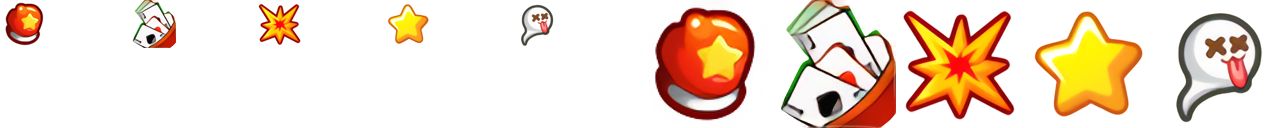
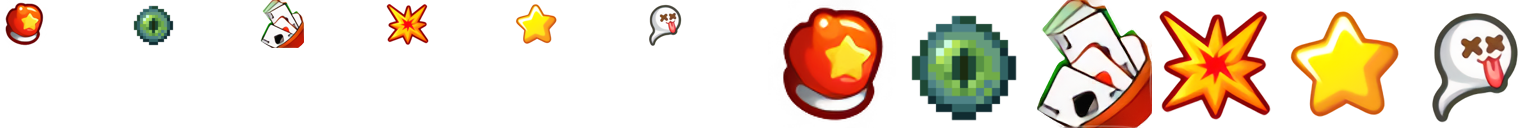
新增卡牌：心之眼

diff --git a/src/main/java/power/EyesHeartPower.java b/src/main/java/power/EyesHeartPower.java
@@ -1,0 +1,52 @@
+package power;
+//心之眼能力
+import com.badlogic.gdx.Gdx;
+import com.badlogic.gdx.graphics.g2d.TextureAtlas;
+import com.megacrit.cardcrawl.actions.common.*;
+import com.megacrit.cardcrawl.cards.AbstractCard;
+import com.megacrit.cardcrawl.core.AbstractCreature;
+import com.megacrit.cardcrawl.core.CardCrawlGame;
+import com.megacrit.cardcrawl.core.Settings;
+import com.megacrit.cardcrawl.localization.PowerStrings;
+import com.megacrit.cardcrawl.actions.utility.UseCardAction;
+import com.megacrit.cardcrawl.powers.AbstractPower;
+
+public class EyesHeartPower extends AbstractPower {
+    public static final String POWER_ID = "EyesHeartPower";
+
+    private static final PowerStrings powerStrings = CardCrawlGame.languagePack.getPowerStrings("EyesHeartPower");
+
+    public static final String NAME = powerStrings.NAME;
+
+    public static final String[] DESCRIPTIONS = powerStrings.DESCRIPTIONS;
+
+    public static TextureAtlas atlas_self;
+    public EyesHeartPower(AbstractCreature owner, int amt) {
+        super();
+        atlas_self = new TextureAtlas(Gdx.files.internal("powers/Selfpowers.atlas"));
+        this.name = NAME;
+        this.description = DESCRIPTIONS[0]+ amt + DESCRIPTIONS[1];
+        this.ID = POWER_ID;
+        this.owner = owner;
+        this.amount = amt;
+        updateDescription();
+        this.region48 = atlas_self.findRegion("48/EyesHeartPower");
+        this.region128 = atlas_self.findRegion("128/EyesHeartPower");
+        this.type = AbstractPower.PowerType.BUFF;
+    }
+
+    public void atStartOfTurn(){
+        //回合开始时
+    }
+    public void updateDescription() {
+        this.description = powerStrings.DESCRIPTIONS[0] + this.amount + powerStrings.DESCRIPTIONS[1];
+    }
+    public void onUseCard(AbstractCard card, UseCardAction action) {
+        //使用卡片时触发
+        if(card.type == AbstractCard.CardType.ATTACK){
+            flash();
+            addToBot(new GainBlockAction(this.owner, this.amount, Settings.FAST_MODE));
+
+        }
+    }
+}

diff --git a/src/main/java/cards/EyesHeart.java b/src/main/java/cards/EyesHeart.java
@@ -1,0 +1,49 @@
+package cards;
+//心之眼
+
+import basemod.abstracts.CustomCard;
+import com.megacrit.cardcrawl.cards.AbstractCard;
+import com.megacrit.cardcrawl.characters.AbstractPlayer;
+import com.megacrit.cardcrawl.core.CardCrawlGame;
+import com.megacrit.cardcrawl.localization.CardStrings;
+import com.megacrit.cardcrawl.monsters.AbstractMonster;
+import com.megacrit.cardcrawl.actions.common.ApplyPowerAction;
+import power.*;
+
+public class EyesHeart extends CustomCard{
+    private static final CardStrings cardStrings = CardCrawlGame.languagePack.getCardStrings("EyesHeart");
+    public static final String NAME = cardStrings.NAME;
+    public static final String DESCRIPTION = cardStrings.DESCRIPTION;
+    public static final String IMG_PATH = "img/cards_Seles/EyesHeart.png";
+    private static final int COST = 2;
+    public static final String ID = "EyesHeart";
+    public EyesHeart() {
+        super(ID, NAME, IMG_PATH, COST, DESCRIPTION, CardType.POWER, CardColor.PURPLE, CardRarity.RARE, CardTarget.SELF);
+        //设置 magicNumber
+        this.baseMagicNumber = 3;
+        this.magicNumber = this.baseMagicNumber;
+    }
+
+    @Override
+    public void use(AbstractPlayer p, AbstractMonster m) {
+        //使用卡牌时触发的动作
+        addToBot(new ApplyPowerAction(p, p, new EyesHeartPower(p, this.magicNumber), this.magicNumber));
+    }
+
+    @Override
+
+    public AbstractCard makeCopy() {
+        //复制卡牌时触发
+        return new EyesHeart();
+    }
+    @Override
+    public void upgrade() {
+        //卡牌升级后的效果
+        if (!this.upgraded) {
+            //更改名字和费用
+            upgradeName();
+            upgradeMagicNumber(1);
+        }
+    }
+}
+

diff --git a/src/main/java/demoMod/selesMod.java b/src/main/java/demoMod/selesMod.java
@@ -193,6 +193,7 @@ public class selesMod implements RelicGetSubscriber, PostPowerApplySubscriber, P
         this.cardsToAdd.add(new Rebound_My());//斗转星移
         //this.cardsToAdd.add(new VFXTestCard());//特效测试卡牌
         this.cardsToAdd.add(new ForesightAndInsight());//远见明察
+        this.cardsToAdd.add(new EyesHeart());//心之眼
     }
 
     @Override
